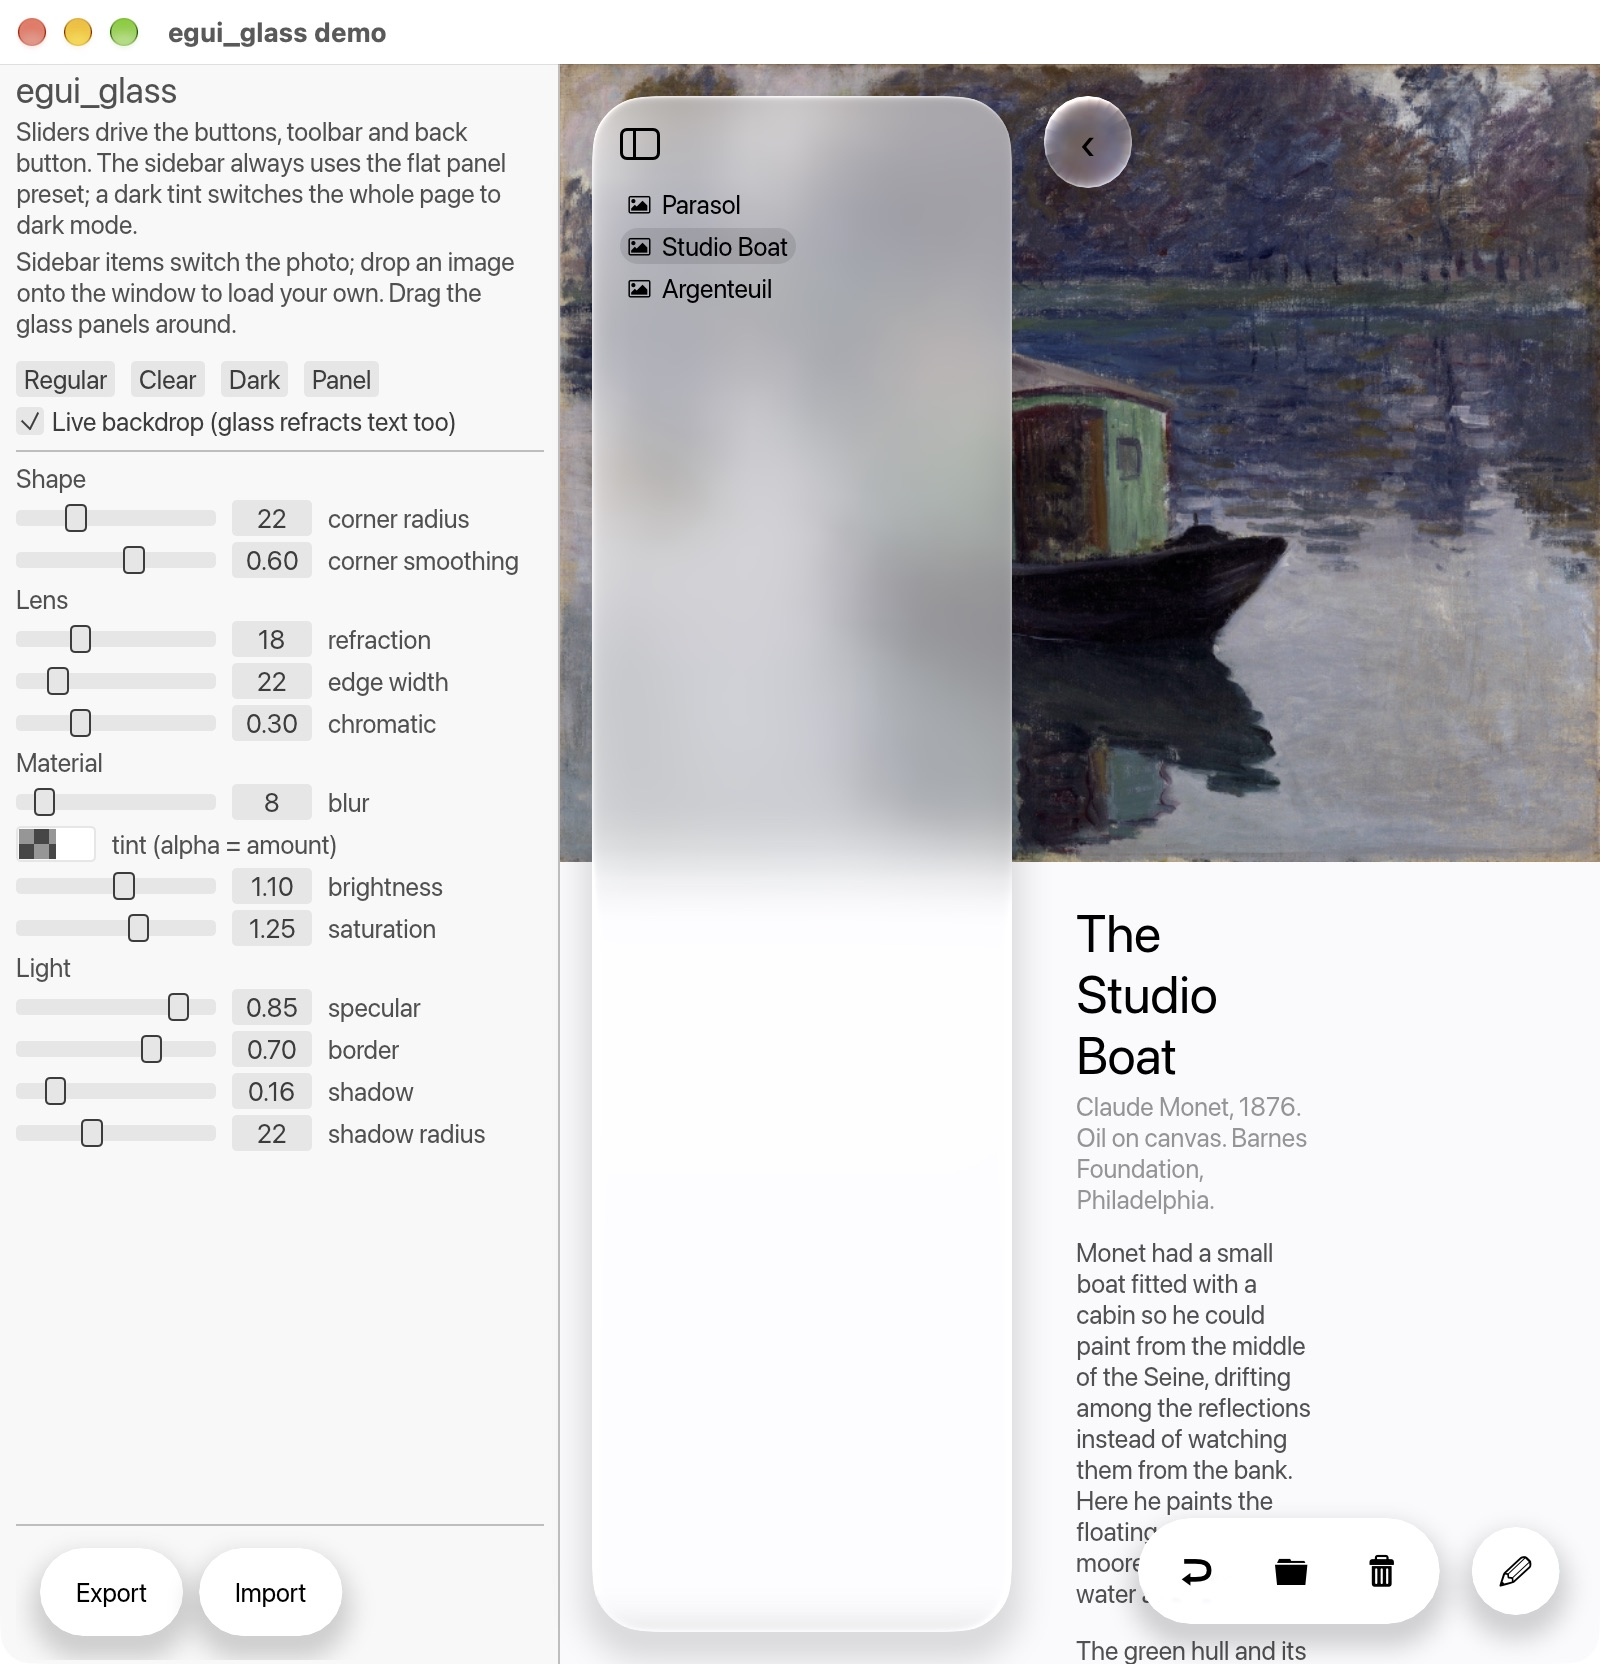
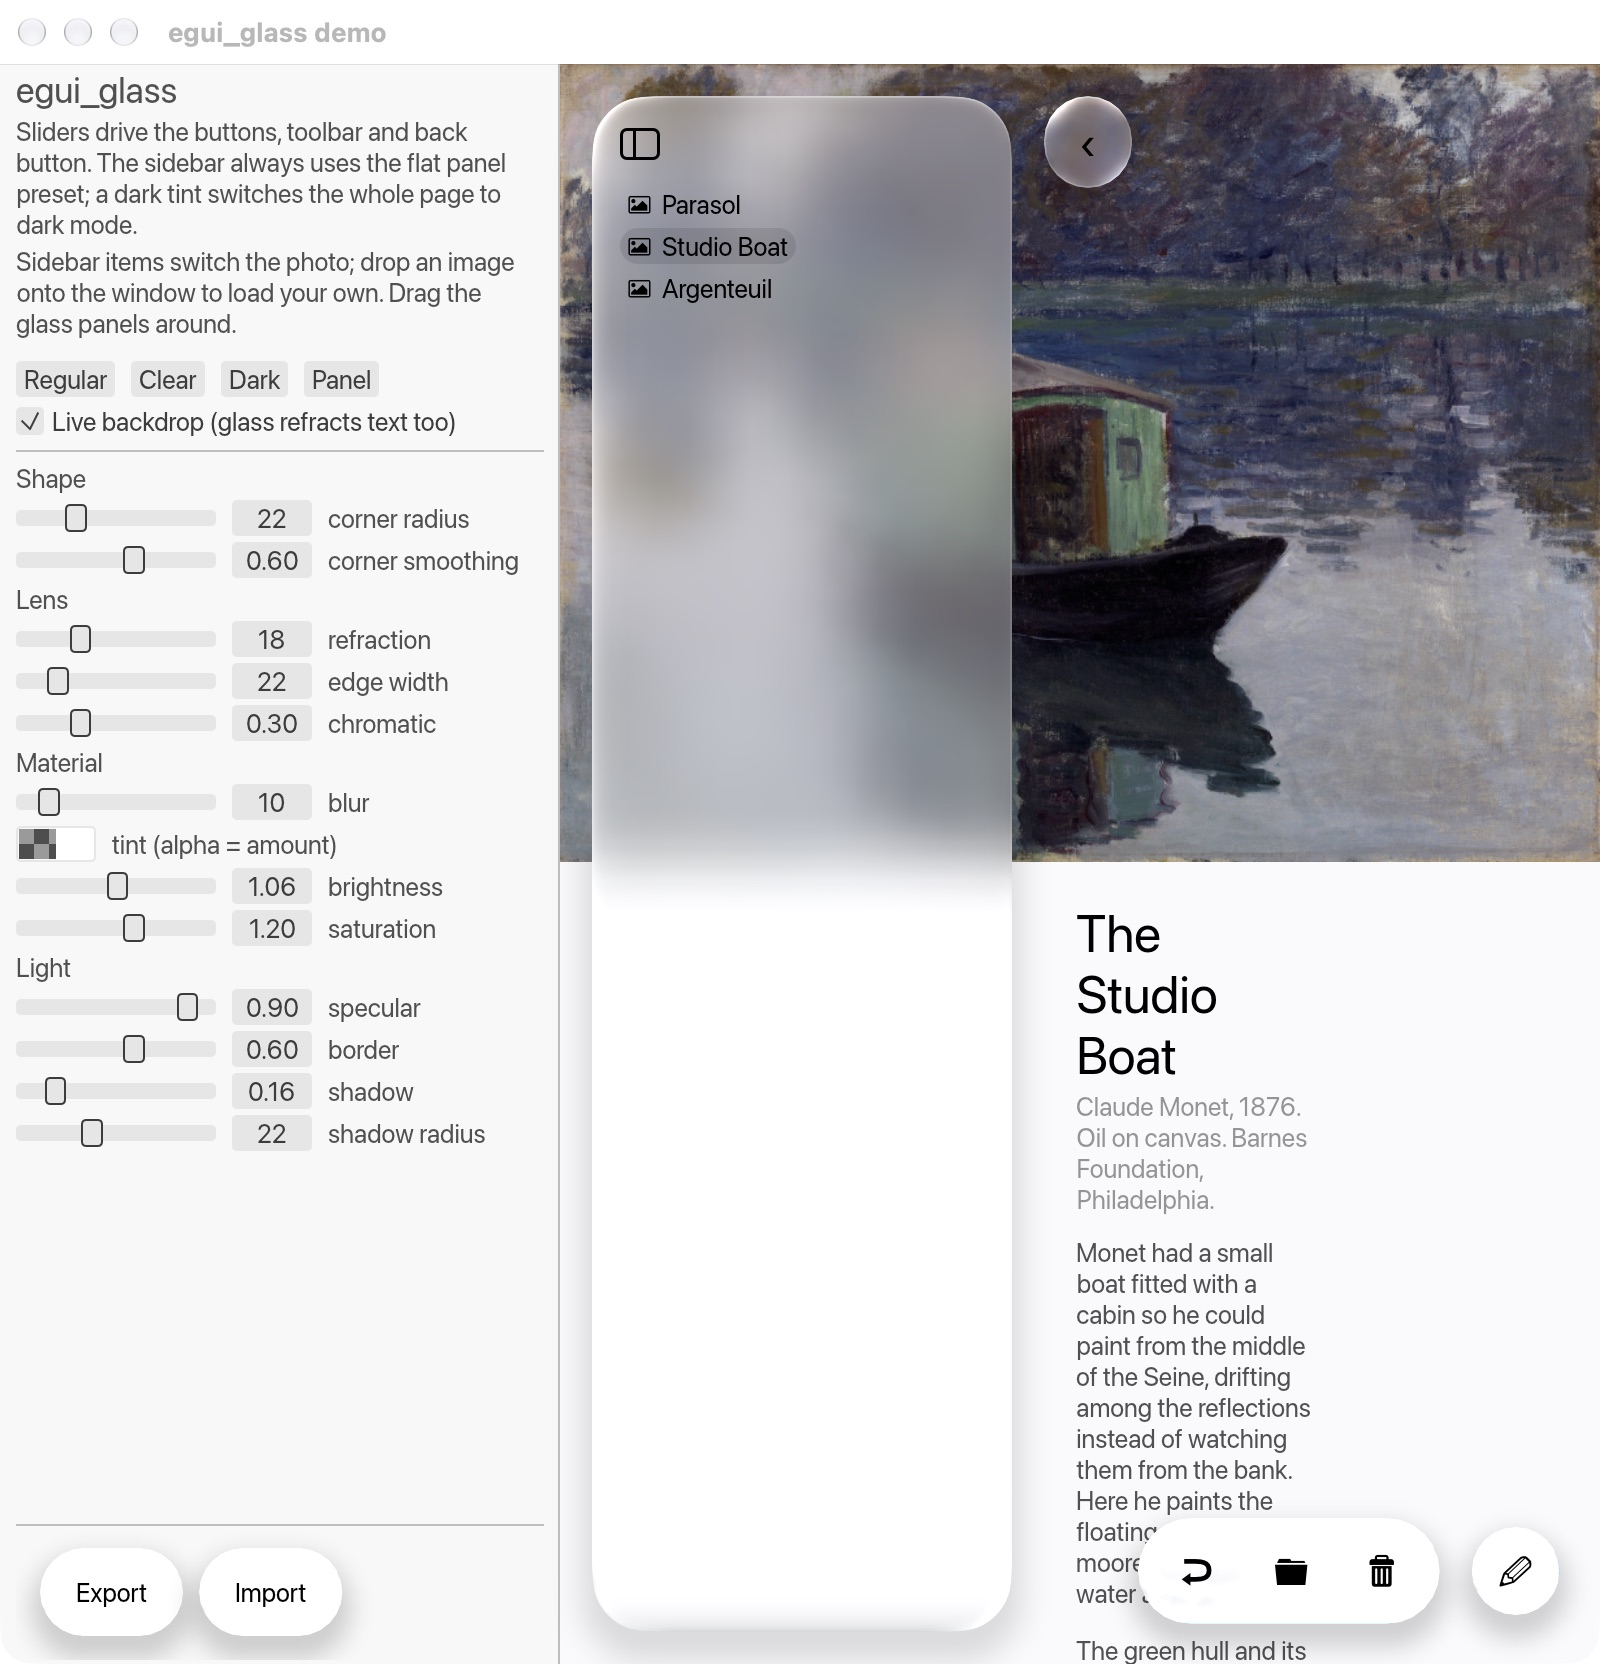
feat: match iOS 26 glass more closely
Compared at 2x against iOS 26 home and lock screens on the same wallpaper:
- regular(): less white and more see-through (tint 52/255, brightness
  1.06, blur 10); panel(): frosted but transparent with an edge lens
  (tint 80/255, refraction 10, blur 36)
- Rim highlights weighted to curved edges (corners, capsule ends) instead
  of running along straight edges
- Lens and lighting use the analytic rounded-box normal; the polyline SDF
  gradient was faceted and drew radial spokes in the refraction band

diff --git a/crates/egui_glass/src/style.rs b/crates/egui_glass/src/style.rs
@@ -47,15 +47,15 @@ impl GlassStyle {
         Self {
             corner_radius: 22.0,
             corner_smoothing: 0.6,
-            blur: 8.0,
+            blur: 10.0,
             refraction: 18.0,
             edge_width: 22.0,
             chromatic: 0.3,
-            tint: Color32::from_rgba_unmultiplied_const(255, 255, 255, 44),
-            brightness: 1.1,
-            saturation: 1.25,
-            specular: 0.85,
-            border: 0.7,
+            tint: Color32::from_rgba_unmultiplied_const(255, 255, 255, 52),
+            brightness: 1.06,
+            saturation: 1.2,
+            specular: 0.9,
+            border: 0.6,
             shadow: 0.16,
             shadow_radius: 22.0,
         }
@@ -78,15 +78,15 @@ impl GlassStyle {
     pub const fn panel() -> Self {
         Self {
             corner_radius: 28.0,
-            blur: 40.0,
-            refraction: 3.0,
-            edge_width: 10.0,
-            chromatic: 0.0,
-            tint: Color32::from_rgba_unmultiplied_const(255, 255, 255, 130),
-            brightness: 1.0,
-            saturation: 1.0,
-            specular: 0.25,
-            border: 0.45,
+            blur: 36.0,
+            refraction: 10.0,
+            edge_width: 16.0,
+            chromatic: 0.1,
+            tint: Color32::from_rgba_unmultiplied_const(255, 255, 255, 80),
+            brightness: 1.02,
+            saturation: 1.05,
+            specular: 0.45,
+            border: 0.5,
             shadow: 0.12,
             shadow_radius: 28.0,
             ..Self::regular()

diff --git a/CLAUDE.md b/CLAUDE.md
@@ -67,10 +67,13 @@ blank, so retry rather than assume a bug.
 - Verify visually after shader or layout changes: capture the demo on a 2x display and inspect
   zoomed crops of a control over a busy photo; a CPU replica of the SDF was the fastest way to
   find the sign bug.
-- Tuned look (compared against Apple's toolbar/sidebar screenshots): small controls are clear
-  (tint ~44/255 white, blur 8, refraction 18 over a 22 px edge zone, chroma 0.3) with a thin bright
-  rim on the lit edge, a softer one opposite and a faint seam line; panels are frosted (blur 40,
-  tint 130/255, radius 28). Change these only with side-by-side captures.
+- Tuned look (compared at 2x against iOS 26 home/lock screens on the same Monet wallpaper):
+  small controls are lightly frosted (white tint 52/255, blur 10, brightness 1.06, refraction 18
+  over a 22 px edge zone, chroma 0.3); highlights are corner-weighted (`4 n.x² n.y²`), a faint
+  seam line marks the unlit edge; panels are frosted but see-through with a visible edge lens
+  (blur 36, tint 80/255, refraction 10, radius 28). The lens/lighting normal is the analytic
+  rounded-box normal, not the polyline SDF gradient (that one is faceted and shows as spokes).
+  Change these only with side-by-side captures.
 
 ## Release
 
